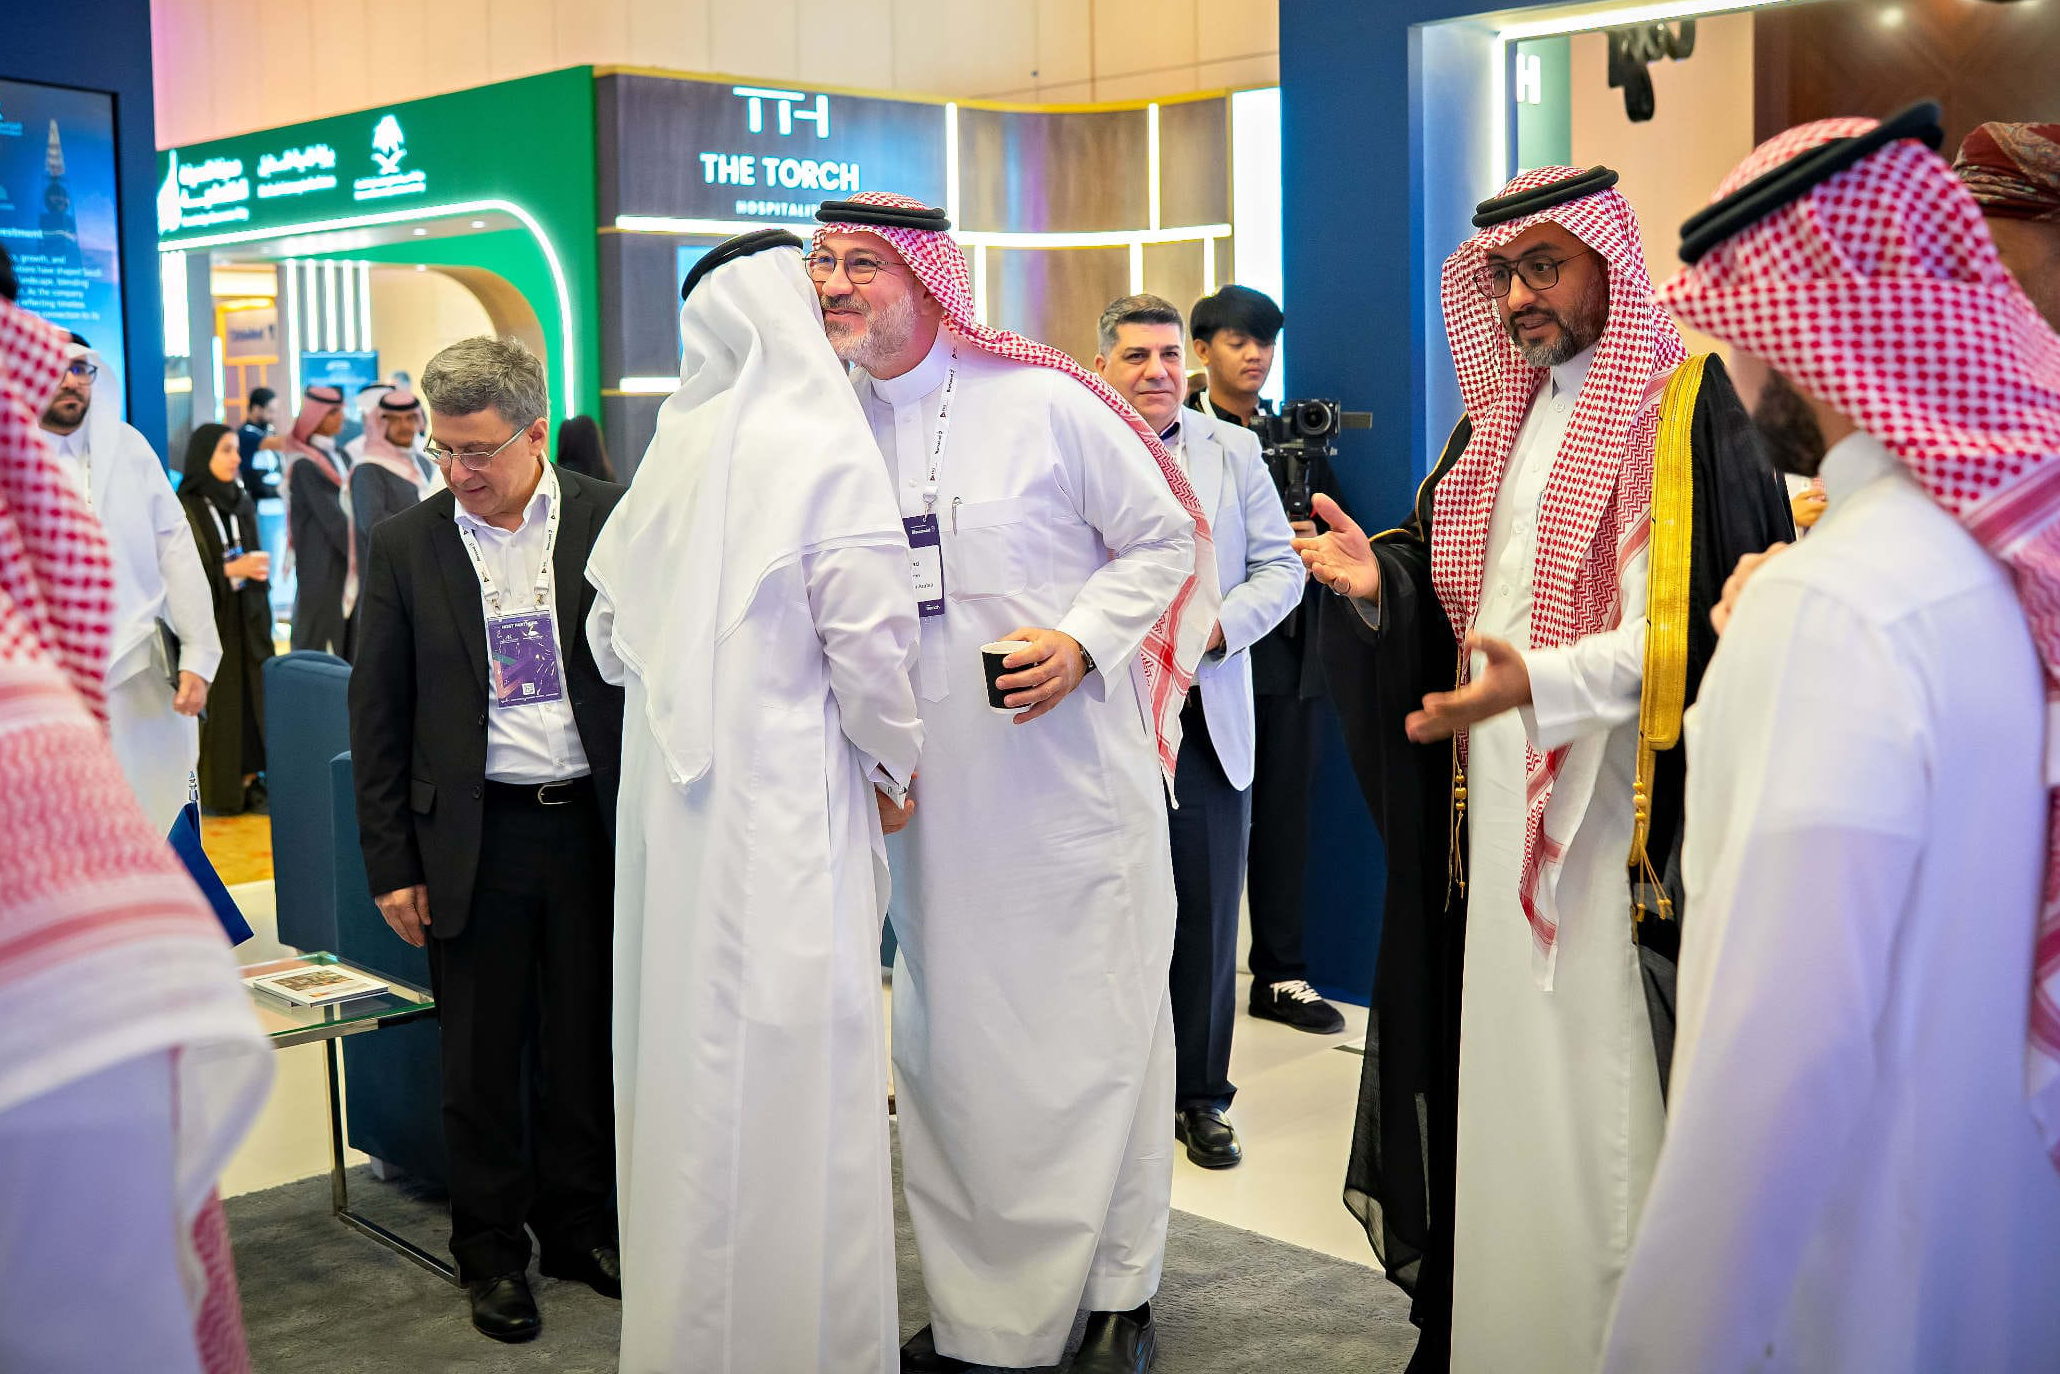
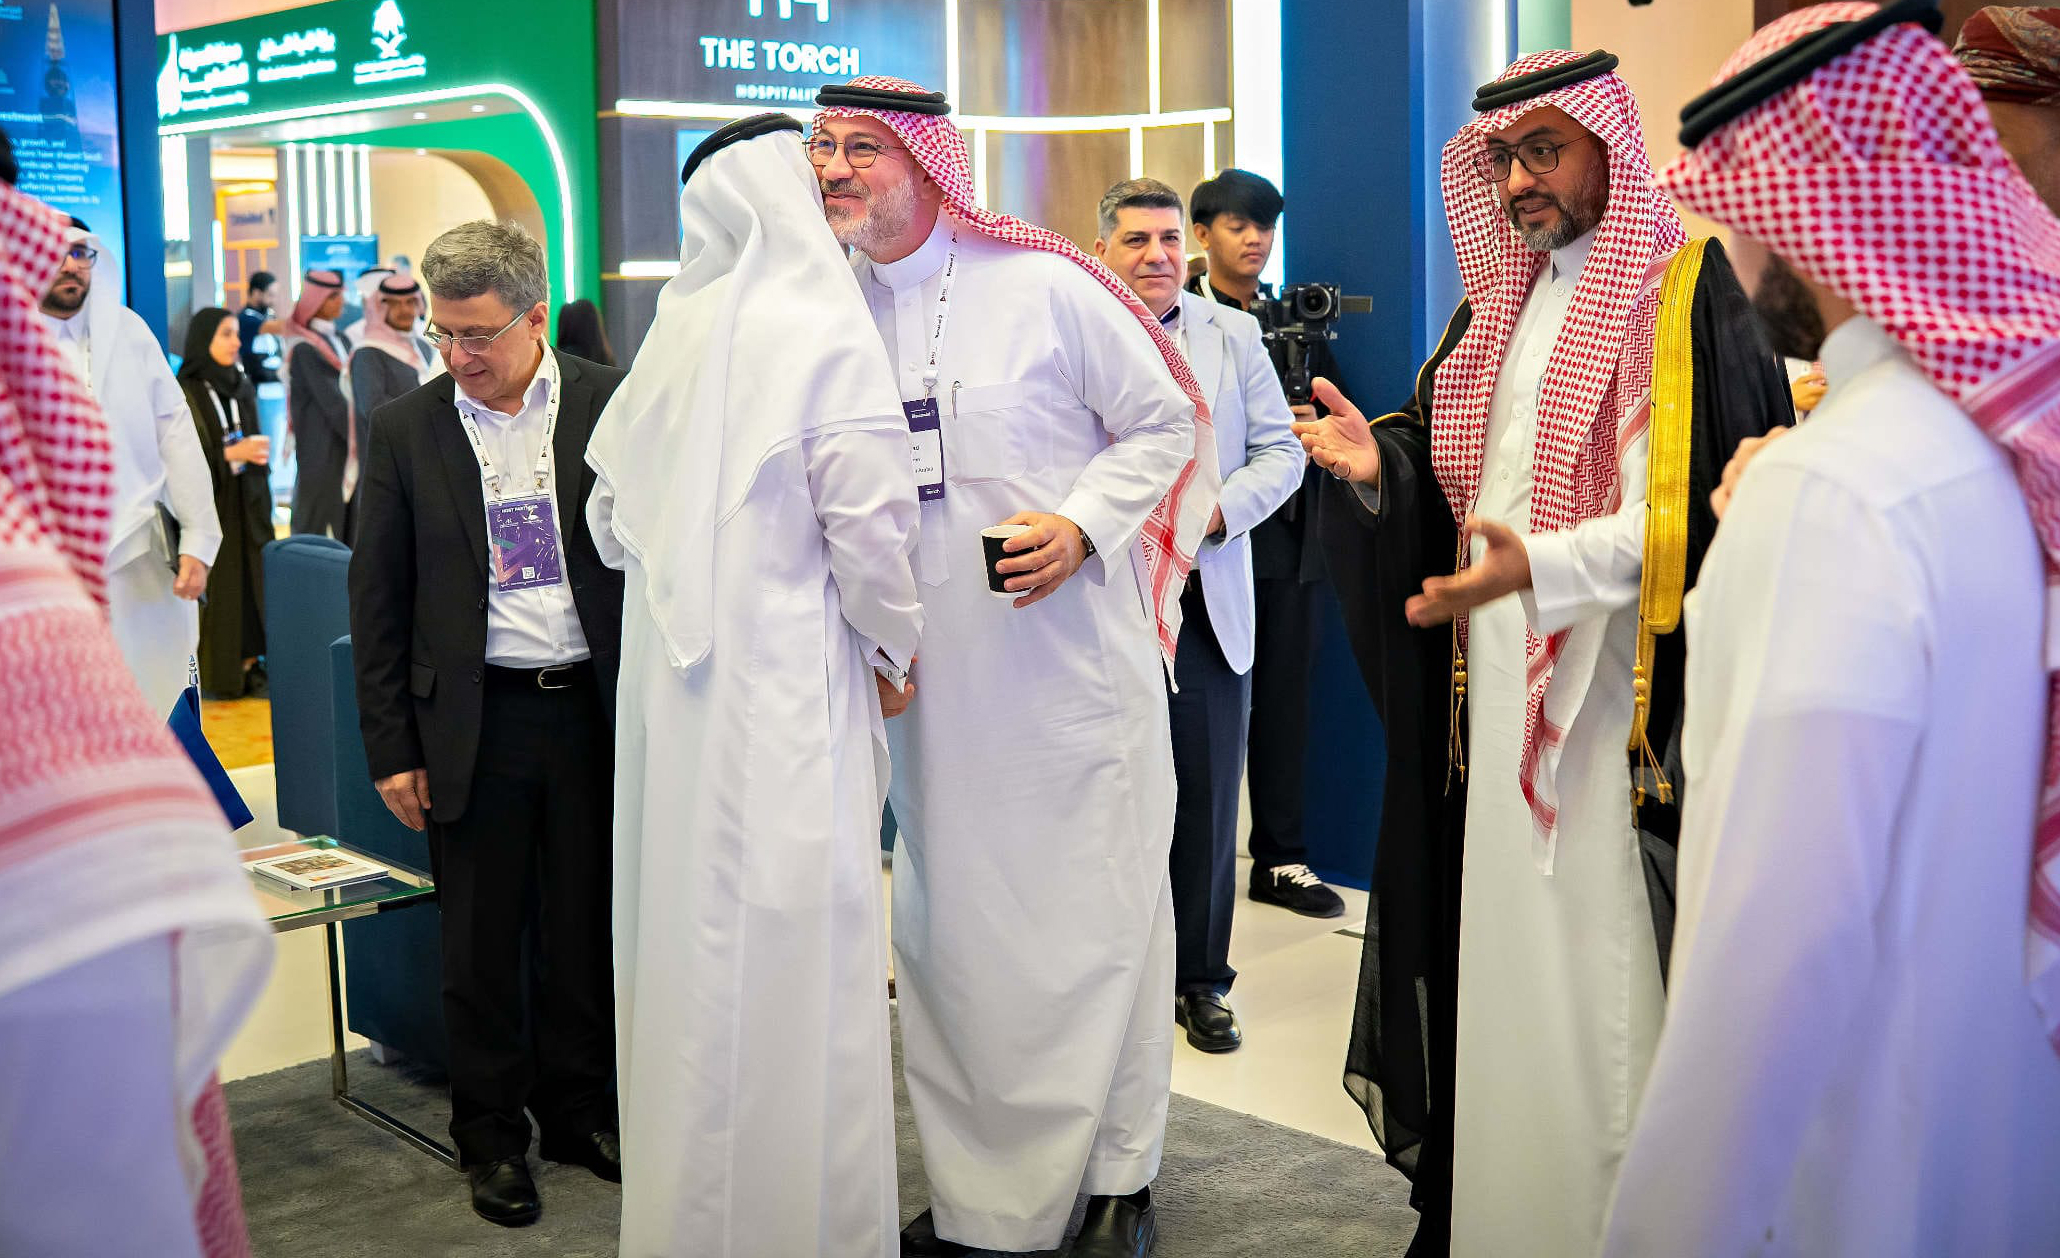
images updates

diff --git a/pages/sa/why-partner.jsx b/pages/sa/why-partner.jsx
@@ -270,24 +270,6 @@ export default function Page ({ partners }) {
             </ImpactGrid>
 
 
-
-            {/* sponsor benefits */}
-            <section className="block bg-default">
-                <div className="container center">
-                    <Fade>
-                        <p className="fs-1 fw-600 c-primary lh-1 caps">Partner Benefits</p>
-                    </Fade>
-                </div>
-
-                <div className="container columns-5 gap-sm">
-                    {
-                        BENEFITS_DATA.map( (card, index) => <IconCard key={index} imageUrl={card.imageUrl} heading={card.heading} body={card.body} />)
-                    }
-                </div>
-            </section>
-
-
-
             {/* testimonials */}
             <section className='block bg-primary'>
                 <div className="container center">
